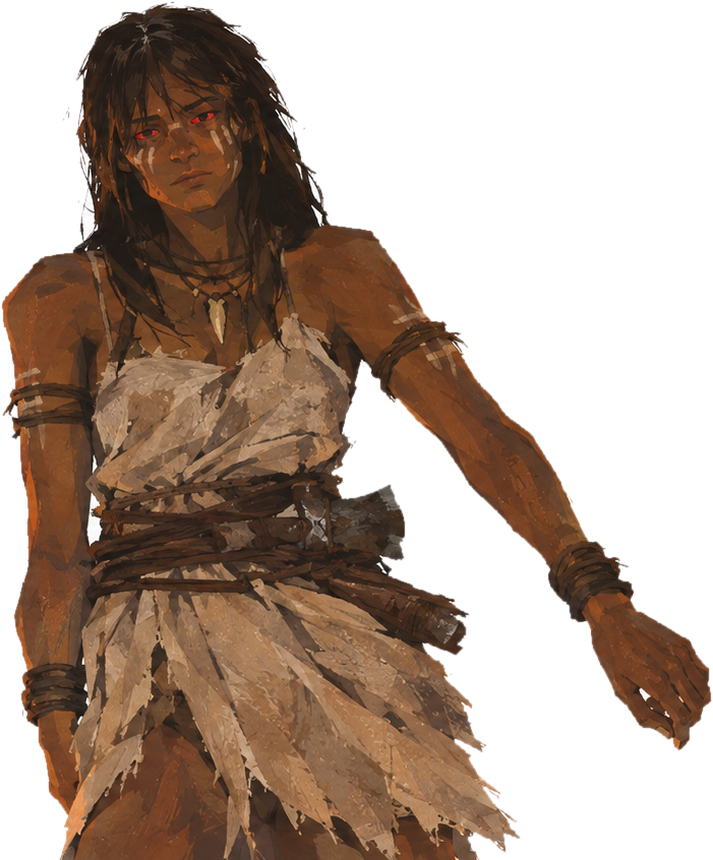
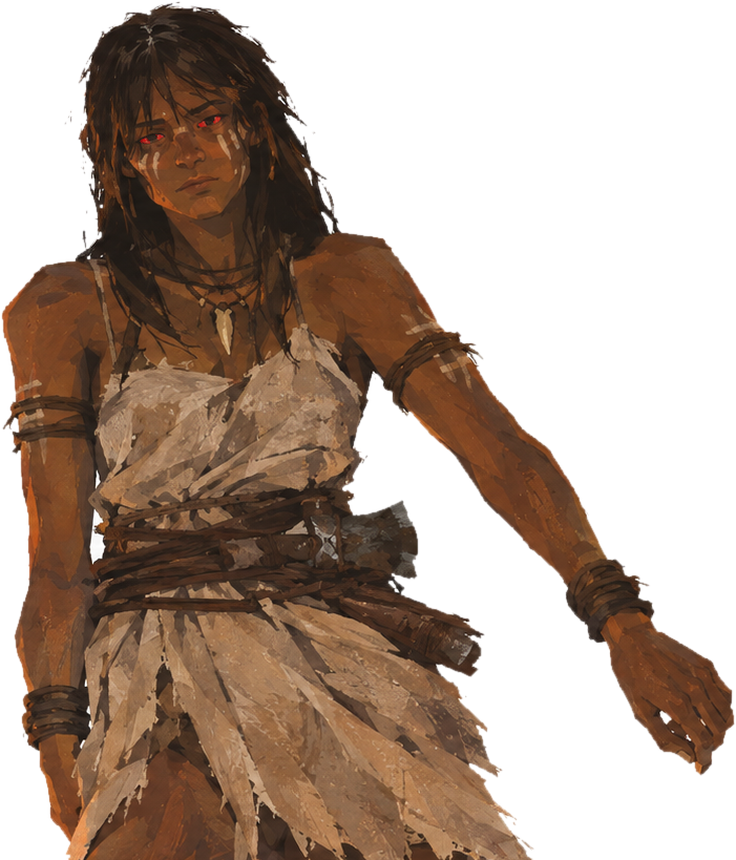
Retratos padronizados e texto da história
- Conversor: corte padrão do topo da cabeça ao meio das coxas (860 px),
  fundo transparente e remoção do branco preso entre braço, corpo e cabelo
- Sete retratos convertidos: Yara, Mbaé, Tamandaré-mirim, Iandé, Krenan,
  Araci e Irmão Aleixo
- Textos/Caraíba — A história.docx: a história do jogo contada em textos,
  segundo a Proposta

Changed region(s): [[0.0, 0.0302, 1.0, 1.0], [0.1543, 0.0, 0.216, 0.0605], [0.1234, 0.0302, 0.1543, 0.0605]]

diff --git a/Jogo/ferramentas/converter_arte.py b/Jogo/ferramentas/converter_arte.py
@@ -31,17 +31,37 @@ CENARIOS = [
     ("FogueiraPerto.png", "cenarios/cenario-fogueira-perto.jpg"),
 ]
 
-# Altura de todo personagem dentro do jogo (a largura acompanha a proporção da arte).
+# CORTE PADRÃO DAS PESSOAS: do topo da cabeça até o meio das coxas, sempre com esta
+# altura. Assim todo mundo aparece na mesma escala, com a cabeça no mesmo lugar da tela.
+# (A largura acompanha a pose de cada um.)
 ALTURA_PERSONAGEM = 860
 
 # Quão claro um pixel precisa ser (0-255, no canal mais escuro) para contar como fundo branco.
 LIMIAR_FUNDO_BRANCO = 228
+# Branco "preso" entre fios de cabelo perto da borda: some se for bem branco e estiver
+# a menos de DISTANCIA_BRANCO_PRESO pixels do fundo. (Dentes e olhos, longe da borda, ficam.)
+LIMIAR_BRANCO_PRESO = 245
+DISTANCIA_BRANCO_PRESO = 24
+# Branco cercado pela pessoa (entre o braço e o corpo, entre o arco e o corpo): some se a
+# mancha branca for grande. Mancha pequena (dente, brilho do olho) fica.
+LIMIAR_BRANCO_CERCADO = 240
+AREA_MINIMA_BRANCO_CERCADO = 1500   # pixels da arte original
 
-# Lista de personagens: (original dentro de Arte/, destino dentro de assets/, giro em graus).
-# As artes de Arte/PP/ vieram desenhadas deitadas, com a cabeça para a direita:
-# 90 gira no sentido anti-horário e deixa a pessoa de pé. Use 0 se a arte já estiver de pé.
+# Lista de personagens: (original dentro de Arte/, destino dentro de assets/, giro, meio da coxa).
+# - giro: as artes de Arte/PP/ vieram deitadas, com a cabeça para a direita; 90 gira no
+#   sentido anti-horário e deixa a pessoa de pé. Use 0 se a arte já estiver de pé.
+# - meio da coxa: a altura (em pixels da arte JÁ DE PÉ, contando de cima) onde fica o meio
+#   das coxas. O topo da cabeça é achado sozinho. Se a arte acaba antes do meio da coxa
+#   (Mbaé, Tamandaré-mirim e Iandé foram desenhados só até a cintura ou o quadril), coloque
+#   onde a coxa estaria: o pedaço que falta fica transparente, escondido atrás da caixa de fala.
 PERSONAGENS = [
-    ("PP/Yara.png", "personagens/yara.png", 90),
+    ("PP/Yara.png", "personagens/yara.png", 90, 830),
+    ("PP/Mbaé.png", "personagens/mbae.png", 90, 1020),
+    ("PP/Tama.png", "personagens/tamandare.png", 90, 965),
+    ("PP/Iandé.png", "personagens/iande.png", 90, 880),
+    ("PP/Krenan.png", "personagens/krenan.png", 90, 950),
+    ("PP/Araci.png", "personagens/araci.png", 90, 960),
+    ("PP/Irmão Aleixo.png", "personagens/aleixo.png", 0, 920),
 ]
 
 
@@ -92,14 +112,43 @@ def tirar_fundo_branco(imagem):
     for ponto in borda:
         if claro.getpixel(ponto) == 255:
             ImageDraw.floodfill(claro, ponto, 128)
-    alfa = claro.point(lambda v: 0 if v == 128 else 255)
+    fundo = claro.point(lambda v: 255 if v == 128 else 0)
+    # Branco preso perto da borda (entre fios de cabelo): também vira fundo.
+    perto_do_fundo = fundo
+    for _ in range(DISTANCIA_BRANCO_PRESO // 2):
+        perto_do_fundo = perto_do_fundo.filter(ImageFilter.MaxFilter(5))
+    bem_branco = mais_escuro.point(lambda v: 255 if v >= LIMIAR_BRANCO_PRESO else 0)
+    fundo = ImageChops.lighter(fundo, ImageChops.multiply(perto_do_fundo, bem_branco))
+    fundo = _juntar_brancos_grandes(fundo, mais_escuro)
+    alfa = ImageChops.invert(fundo)
     # Come 1 pixel da borda (tira o contorno claro) e suaviza o recorte.
     alfa = alfa.filter(ImageFilter.MinFilter(3)).filter(ImageFilter.GaussianBlur(0.8))
     imagem.putalpha(alfa)
     return imagem
 
 
-def converter_personagem(origem, destino, giro):
+def _juntar_brancos_grandes(fundo, mais_escuro):
+    """Marca como fundo as manchas brancas grandes que o balde de tinta da borda não alcançou."""
+    branco = mais_escuro.point(lambda v: 255 if v >= LIMIAR_BRANCO_CERCADO else 0)
+    # Só o branco que ainda não é fundo.
+    marcas = ImageChops.subtract(branco, fundo)       # 255 = branco cercado ainda não visto
+    largura, altura = marcas.size
+    pixels = marcas.load()
+    for y in range(0, altura, 3):
+        for x in range(0, largura, 3):
+            if pixels[x, y] != 255:
+                continue
+            ImageDraw.floodfill(marcas, (x, y), 100)  # pinta a mancha toda com 100
+            area = marcas.histogram()[100]
+            # Mancha grande vira 50 (sai); pequena vira 200 (fica).
+            novo = 50 if area >= AREA_MINIMA_BRANCO_CERCADO else 200
+            marcas = marcas.point(lambda v, novo=novo: novo if v == 100 else v)
+            pixels = marcas.load()
+    grandes = marcas.point(lambda v: 255 if v == 50 else 0)
+    return ImageChops.lighter(fundo, grandes)
+
+
+def converter_personagem(origem, destino, giro, meio_da_coxa):
     caminho_origem = os.path.join(PASTA_ARTE, origem)
     caminho_destino = os.path.join(PASTA_ASSETS, destino)
     if not os.path.exists(caminho_origem):
@@ -110,9 +159,17 @@ def converter_personagem(origem, destino, giro):
     if giro:
         imagem = imagem.rotate(giro, expand=True, fillcolor=(255, 255, 255, 255))
     imagem = tirar_fundo_branco(imagem)
-    imagem = imagem.crop(imagem.getbbox())  # corta a sobra transparente em volta
+    # Corte padrão: do topo da cabeça até o meio da coxa. Se a arte acabar antes,
+    # crop() completa com transparente embaixo.
+    esquerda, topo, direita, _ = imagem.getbbox()
+    imagem = imagem.crop((esquerda, topo, direita, meio_da_coxa))
     escala = ALTURA_PERSONAGEM / imagem.height
     imagem = imagem.resize((round(imagem.width * escala), ALTURA_PERSONAGEM), Image.LANCZOS)
+    imagem = imagem.crop(imagem.getbbox())  # tira colunas vazias dos lados (a altura fica)
+    if imagem.height != ALTURA_PERSONAGEM:  # a arte acabou antes do meio da coxa
+        completa = Image.new("RGBA", (imagem.width, ALTURA_PERSONAGEM), (0, 0, 0, 0))
+        completa.paste(imagem, (0, 0))
+        imagem = completa
     imagem.save(caminho_destino, optimize=True)
     tamanho_kb = os.path.getsize(caminho_destino) // 1024
     print("  ok  %-22s -> %-36s %4d KB" % (origem, destino, tamanho_kb))
@@ -123,8 +180,8 @@ def main():
     for origem, destino in CENARIOS:
         converter_cenario(origem, destino)
     print("Convertendo personagens")
-    for origem, destino, giro in PERSONAGENS:
-        converter_personagem(origem, destino, giro)
+    for origem, destino, giro, meio_da_coxa in PERSONAGENS:
+        converter_personagem(origem, destino, giro, meio_da_coxa)
     print("Pronto.")
 
 

diff --git a/Jogo/dados/arte.py b/Jogo/dados/arte.py
@@ -10,9 +10,16 @@ CENARIOS = {
     "fogueira_perto": "cenarios/cenario-fogueira-perto.jpg",
 }
 
-# Personagens (860 de altura, PNG com fundo transparente), gerados por ferramentas/converter_arte.py.
+# Personagens gerados por ferramentas/converter_arte.py: PNG com fundo transparente,
+# todos com o mesmo corte (do topo da cabeça ao meio das coxas, 860 de altura).
 PERSONAGENS = {
     "yara": "personagens/yara.png",
+    "mbae": "personagens/mbae.png",
+    "tamandare": "personagens/tamandare.png",
+    "iande": "personagens/iande.png",
+    "krenan": "personagens/krenan.png",
+    "araci": "personagens/araci.png",
+    "aleixo": "personagens/aleixo.png",
 }
 
 # Onde fica o fogo em cada cenário (x, y na tela 1600x900).

diff --git a/Jogo/README.md b/Jogo/README.md
@@ -73,8 +73,9 @@ menores em `Jogo/assets/`, com nomes sem acento e sem espaço (acento quebra no 
 1. Coloque a arte nova em `Caraiba/Arte/`.
 2. Abra `ferramentas/converter_arte.py` e acrescente uma linha na lista `CENARIOS`, por exemplo:
    `("Oca.png", "cenarios/cenario-oca.jpg"),`
-   Para uma pessoa, use a lista `PERSONAGENS`, com o giro no fim:
-   `("PP/Mbaé.png", "personagens/mbae.png", 90),`
+   Para uma pessoa, use a lista `PERSONAGENS`, com o giro e a altura do meio da coxa no fim:
+   `("PP/Potira.png", "personagens/potira.png", 90, 900),`
+   Toda pessoa sai com o mesmo corte: do topo da cabeça até o meio das coxas, 860 de altura.
    As artes de `Arte/PP/` vieram deitadas (cabeça para a direita): `90` deixa a pessoa de pé.
    O fundo branco que encosta na borda vira transparente sozinho.
 3. Instale a ferramenta de imagens (só na primeira vez): `pip install -r requirements-ferramentas.txt`
